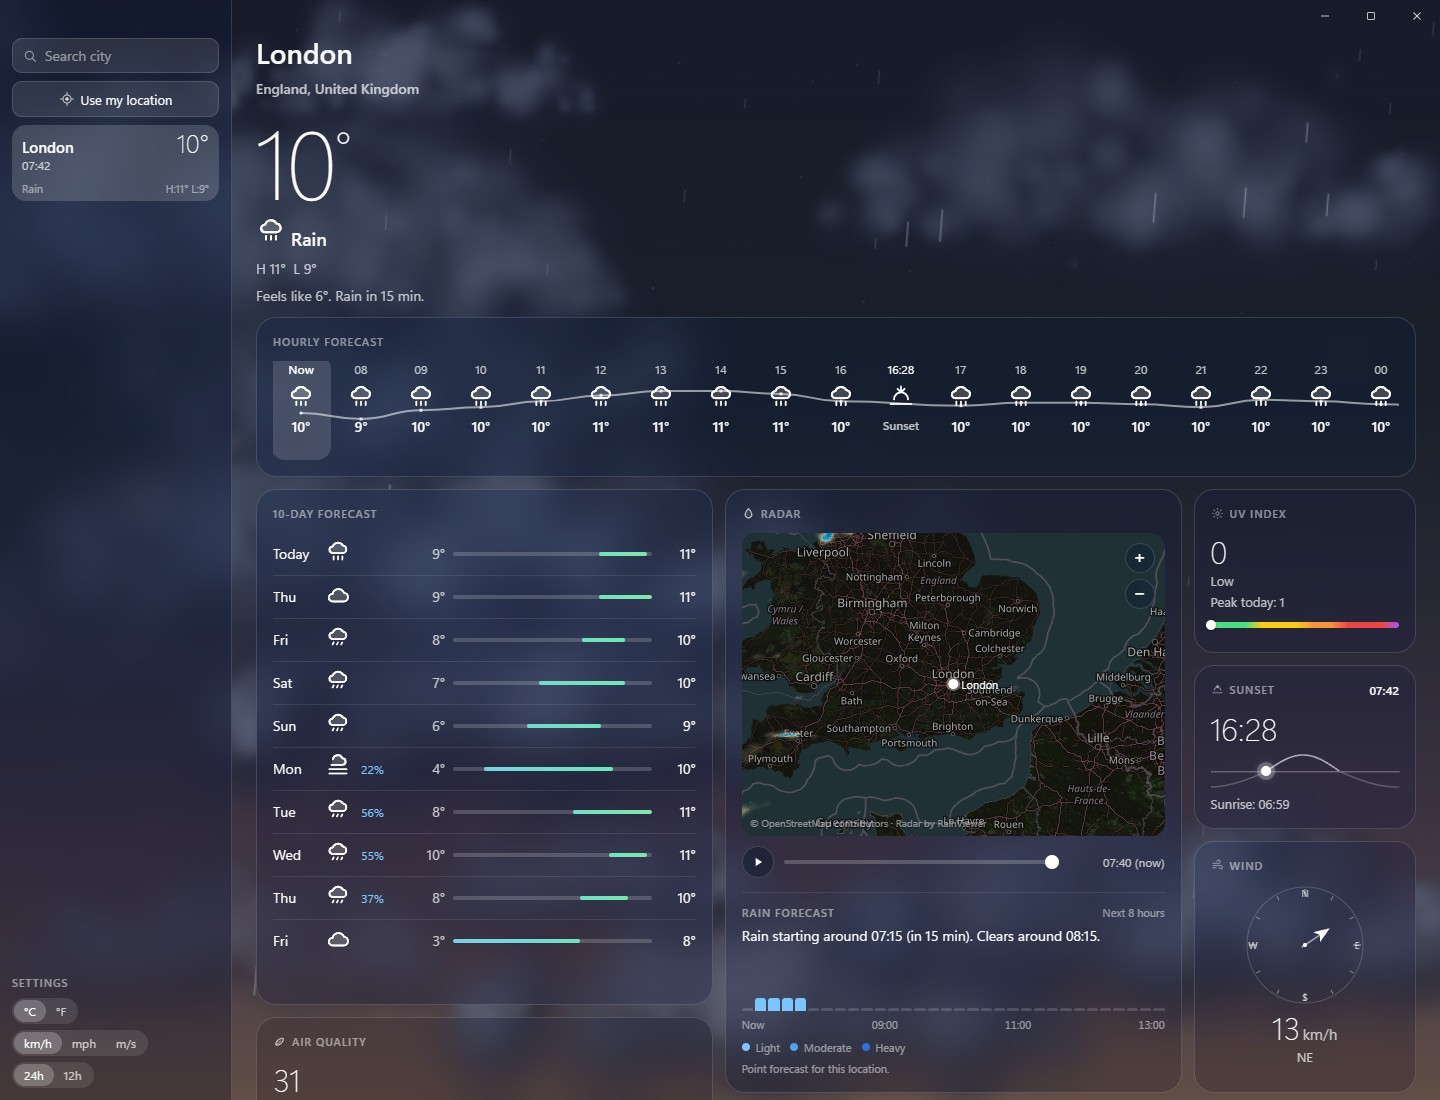
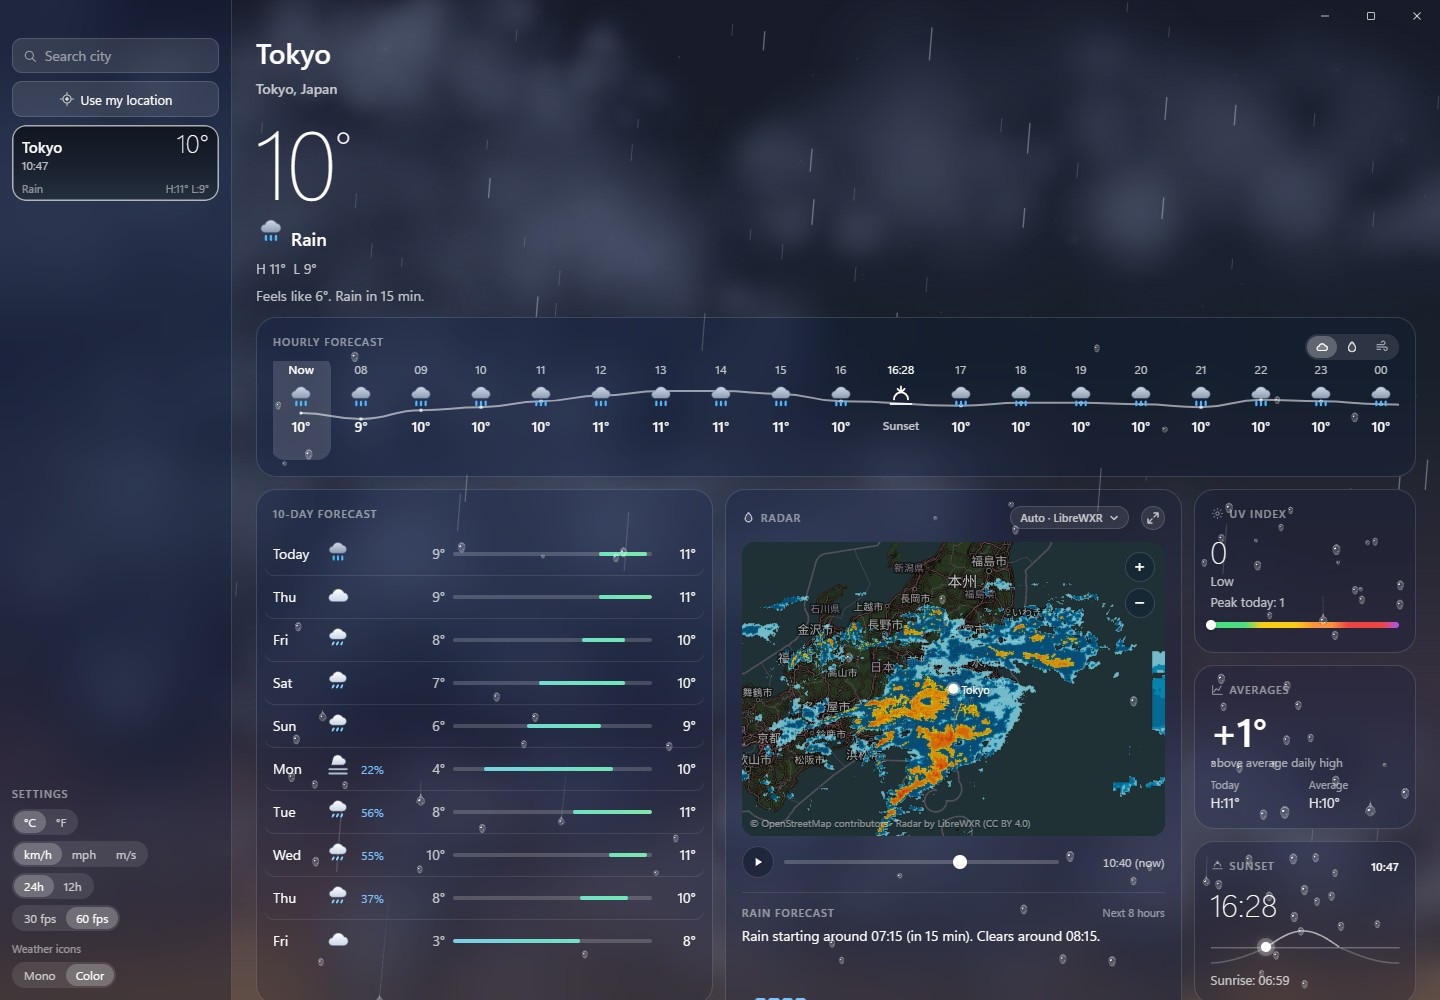
README: refreshed screenshots and feature list

diff --git a/README.md b/README.md
@@ -12,14 +12,19 @@ Built with Tauri 2 (WebView2), a Rust backend and a vanilla TypeScript + plain C
 |---|---|---|
 | ![Clear night](screenshots/clear-night.jpg) | ![Snow](screenshots/snow-day.jpg) | ![Thunderstorm](screenshots/storm-night.jpg) |
 
+| Day popover | Expanded radar |
+|---|---|
+| ![Day popover](screenshots/popover-day.jpg) | ![Expanded radar](screenshots/radar-expanded.jpg) |
+
 ## Features
 
-- Current conditions, hourly strip, 10-day forecast, 15-minute rain nowcast
-- Precipitation radar (past frames, pan, zoom, play)
-- Nine info tiles (air quality, UV, sun, wind, precipitation, feels like, humidity, visibility, pressure), each opening a detail view with a 48-hour chart
-- Animated sky: sun and moon travel with the time of day, stars, clouds, rain, snow, fog, lightning
-- Saved cities with live local time, search, and "Use my location" (IP based)
-- Units: C/F, km/h, mph, m/s, 12/24 h
+- Current conditions, hourly strip (switch between conditions, chance of rain and wind), 10-day forecast, 15-minute rain nowcast
+- Precipitation radar with a 60 minute nowcast, a source picker (LibreWXR with RainViewer as fallback), pan, zoom and play, and an expanded view that gives the map half the window
+- Tiles for air quality, UV, sun, wind, moon phase, averages (today's high versus the 10-year normal), precipitation, feels like, humidity, visibility and pressure; each opens a popover next to it, and the 10-day rows and hourly card open a per-day Conditions popover
+- Animated sky that follows the time of day: sun with a faint halo, moon, stars, clouds, rain (with droplets running down the tiles), snow, fog, lightning; optional 60 fps mode
+- Weather icons as line drawings or in colour
+- Saved cities with live local time and their own sky, search, and "Use my location" (IP based)
+- Units: C/F, km/h, mph, m/s, 12/24 h; optional start with Windows (launches into the tray)
 - Tray-resident: closing the window frees the webview (about 6 MB); the tray icon or a second launch brings it back, and the current location refreshes every 15 minutes in the background
 
 The release exe is about 5 MB; the installer is about 1.6 MB.
